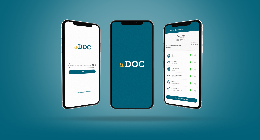
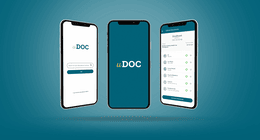
Refactored project section and updated uDoc image

Changed region(s): [[0.2154, 0.1143, 0.8, 0.8], [0.4615, 0.8286, 0.4923, 0.8571]]

diff --git a/index.html b/index.html
@@ -77,8 +77,8 @@
           <img class="project-img" src="images/raimundo-port.png" alt="raimundo app">
           <div>
             <h2 class="project-title">
-              Raimundo - Ruby on Rails
-            </h3>
+              Raimundo <h3 class="rails">(Ruby on Rails)</h3>
+            </h2>
             <p>Named after my grandfather, an application to help the elderly.</p>
             <p class="secondary-text">Intuitive and optmized app to help elders with their medicine schedule and other features in a simple format where anyone non-fluent with the internet could easily use.</p>
               </a>
@@ -89,8 +89,8 @@
           <img class="project-img" src="images/cosmo-port4.png" alt="cosmonaut app">
           <div>
             <h2 class="project-title">
-              Cosmonaut - Ruby on Rails
-            </h3>
+              Cosmonaut <h3 class="rails">(Ruby on Rails)</h3>
+            </h2>
             <p>Marketplace for intergalactic trips.</p>
             <p class="secondary-text">But tickets as a passenger or create trips as a pilot, chossing which planet to travel to and the name of the spaceship.</p>
               </a>
@@ -101,8 +101,8 @@
           <img class="project-img" src="images/cocktail-jo.png" alt="raimundo app">
           <div>
             <h2 class="project-title">
-              Mr. Cocktail - Ruby on Rails
-            </h3>
+              Mr. Cocktail <h3 class="rails">(Ruby on Rails)</h3>
+            </h2>
             <p>Share and discover drink ideas.</p>
             <p class="secondary-text"> Create your drink with name and dose or see other drinks created.</p>
               </a>
@@ -113,7 +113,7 @@
           <img class="project-img" src="images/udoc-port.png" alt="raimundo app">
           <div>
             <h2 class="project-title">
-              uDoc - UX Case Study
+              uDoc <h3 class="ux">(UX Case Study)</h3>
             </h3>
             <p>Simplifying the process of sending documents to brazilian Educational Institutes.</p>
             <p class="secondary-text">Detailed process of how me and my team used UX Design to identify problems in the administrative procedures of Brazilian Educational Institutes and created solutions using UX Tools and prototypes on Figma.</p>

diff --git a/style.css b/style.css
@@ -125,6 +125,18 @@ section {
   text-decoration: underline;
 }
 
+.rails {
+  color: #CD0001;
+}
+
+.ux {
+  color: #F2BC47;
+}
+
+.react {
+  color: #14D3F9;
+}
+
 @media (max-width: 768px) {
   .project-item {
     background-color: #152846;
